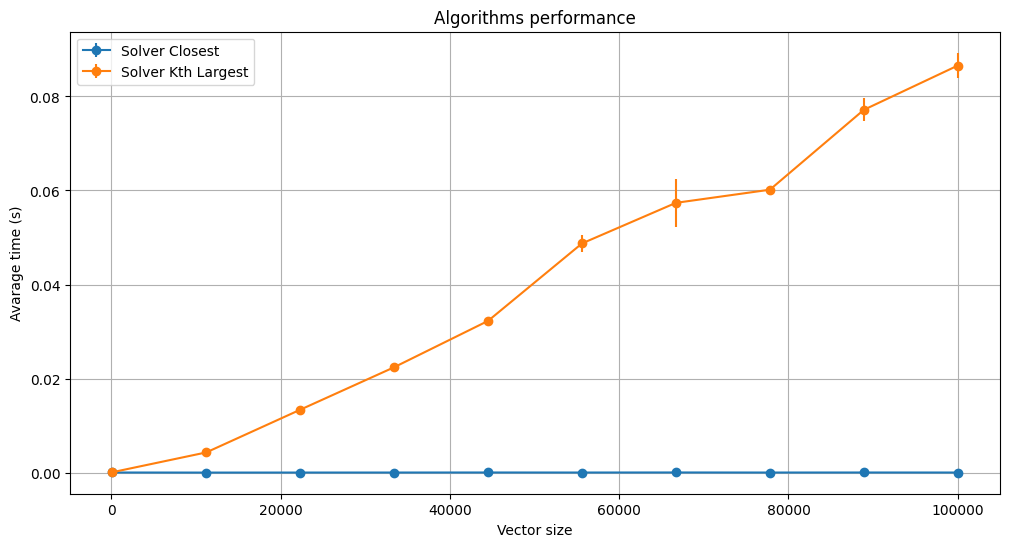
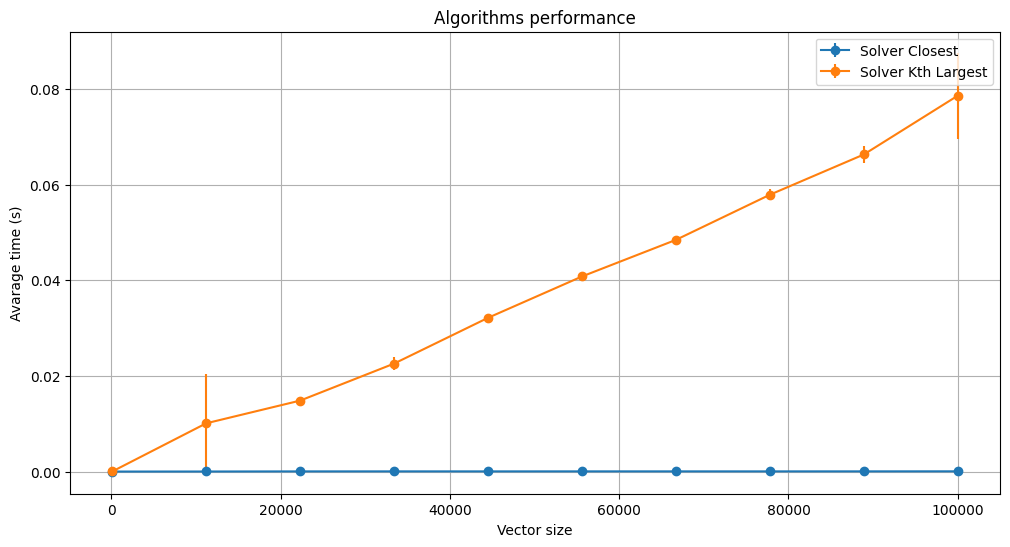
Changing inputs for better images

diff --git a/UN2/U2T2/README.md b/UN2/U2T2/README.md
@@ -64,7 +64,7 @@ from closestvalue import findClosestValue
 np.random.seed(42)
 N = 100000
 steps = 10
-executions_per_size = 100
+executions_per_size = 10
 
 vector_sizes = np.linspace(100, N, steps, dtype=int)
 
@@ -80,8 +80,8 @@ for size in vector_sizes:
     times_kth_largest = []
 
     # Create test datatest
-    target = np.random.randint(250, 500)
-    data = np.random.randint(0, 1000, size)
+    target = size/2
+    data = np.random.randint(0, size, size)
 
     bst = BST()
     for value in data:
